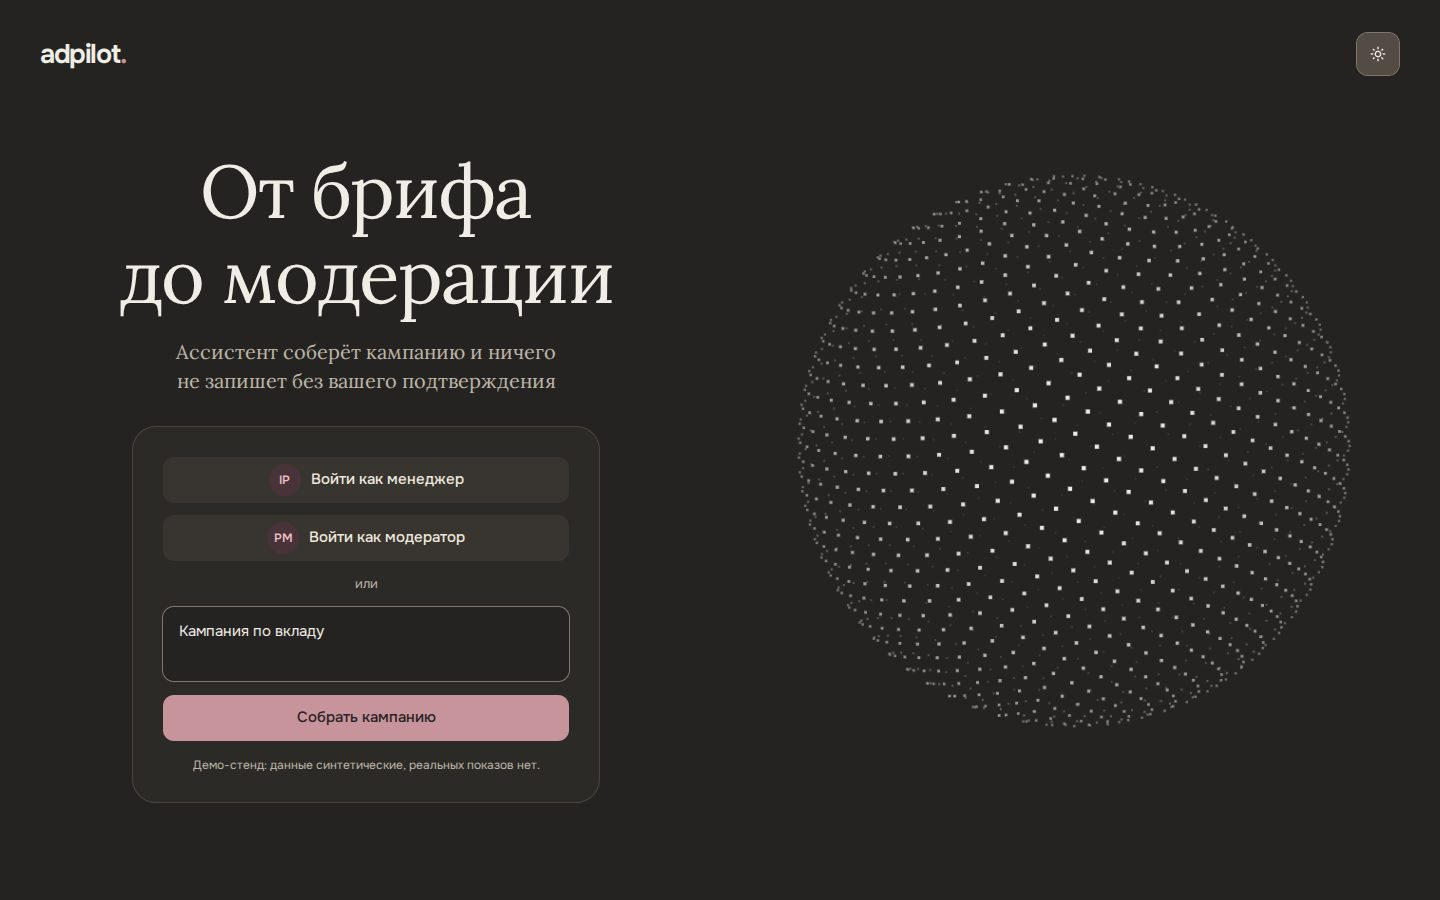
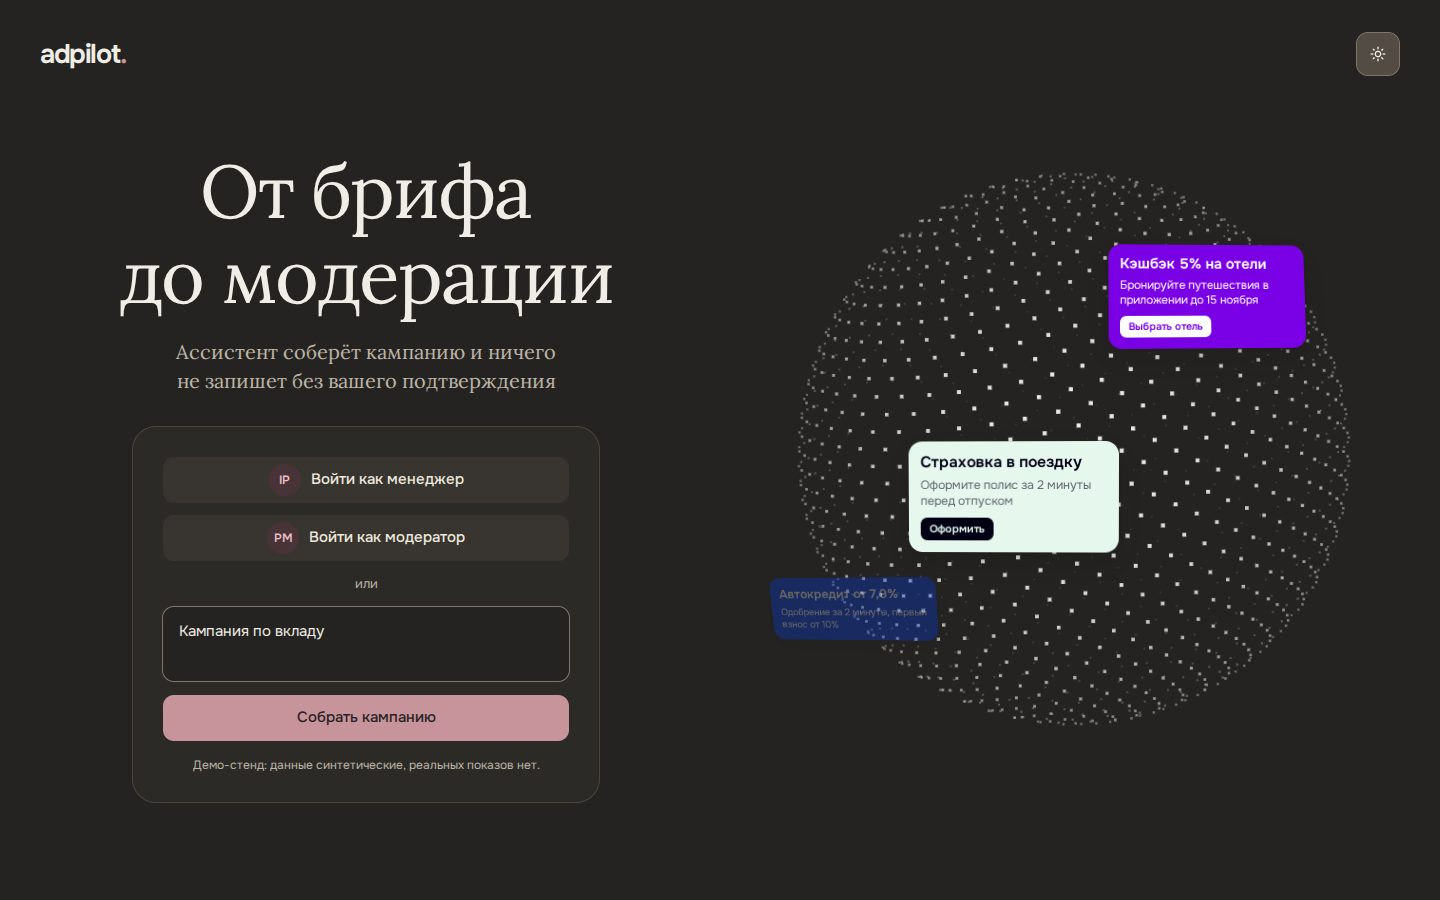
docs: record promotions on entry sphere

diff --git a/docs/DESIGN.md b/docs/DESIGN.md
@@ -46,11 +46,11 @@ colors:
 
 ## Вход
 
-Первый экран для нового посетителя: слева логотип, заголовок Onest и карточка, справа сфера из точек (Созвездие голосового режима) прямо на фоне страницы, в обеих темах: в светлой точки цвета текста панели, в тёмной светлые. Формат взят с референса пользователя, цвета, шрифты и кнопки — из этой системы. Фото из первой версии заменено по просьбе пользователя. Реализация — `frontend/src/features/entry/`.
+Первый экран для нового посетителя: слева логотип, заголовок Onest и карточка, справа сфера из точек (Созвездие голосового режима) прямо на фоне страницы, в обеих темах: в светлой точки цвета текста панели, в тёмной светлые. К поверхности сферы прикреплены шесть примеров акций: тексты и цвета без изменений из выданных моков (`campaign_banners.json`), картинок нет, потому что их адреса в моках не открываются. Сзади сферы карточки гаснут. На ширине ≤900px от карточки остаётся название в одну строку. Формат взят с референса пользователя, цвета, шрифты и кнопки — из этой системы. Фото из первой версии заменено по просьбе пользователя. Реализация — `frontend/src/features/entry/`.
 
 Карточка содержит вход менеджером, вход модератором, «или», поле брифа и основную кнопку «Собрать кампанию»; кобальт выделяет основную кнопку. Бриф отправляется агенту от менеджера. Вход не аутентифицирует, а выбирает роль для заголовков запросов, поэтому внешних провайдеров и поля почты нет. Подпись карточки сообщает, что данные синтетические и показов нет. «Выйти» находится в меню пользователя.
 
-На ширине ≤900px сфера стоит над заголовком, высота холста 130–260px; на 390×844 всё умещается без прокрутки. Движение: появление по общей схеме 280ms, сфера откликается на ввод брифа и затухает за 700ms, смена экрана — перекрёстное затухание 240ms через View Transitions; при reduced motion сфера неподвижна, а экран меняется сразу. Сфера рисуется на Canvas 2D, WebGL ей не нужен.
+На ширине ≤900px сфера стоит над заголовком, высота холста 130–260px; на 390×844 всё умещается без прокрутки. Движение: появление по общей схеме 280ms, сфера вращается вдвое медленнее, чем в голосовом режиме, чтобы карточки читались на ходу, откликается на ввод брифа и затухает за 700ms, смена экрана — перекрёстное затухание 240ms через View Transitions; при reduced motion сфера неподвижна, видны только целые карточки, а экран меняется сразу. Сфера рисуется на Canvas 2D, WebGL ей не нужен.
 
 ## Проверка
 

diff --git a/docs/STATUS.md b/docs/STATUS.md
@@ -106,6 +106,8 @@ Production build и lint прошли (прежние предупреждени
 
 Фото затем заменено сферой из точек (Созвездие) в обеих темах. Повторно проверены те же шесть размеров, обе темы, отклик на ввод, reduced motion и отрисовка при отключённом WebGL: горизонтального переполнения и ошибок в консоли нет. В голосовом режиме светлая тема по-прежнему с Перламутром. На настоящем телефоне частота кадров не замерялась.
 
+На сферу добавлены шесть примеров акций из `campaign_banners.json` (баннеры 205, 207, 210, 211, 214, 215). Кадры за оборот на 1440×900 и 390×844: видно 2–3 карточки, перекрытий нет. На 360×640 на отдельных кадрах заметно небольшое перекрытие (до 41 px² площади).
+
 ## Анимации и прокрутка 31.10
 
 - Добавлены переход внутри кнопки «голос → отправка», сглаженный набор только новых SSE-ответов, курсор и индикатор ожидания. История и готовый ответ не задерживаются. Автор и реплики разделены, выполненные шаги свёрнуты; чтение старых сообщений сохраняет позицию.
